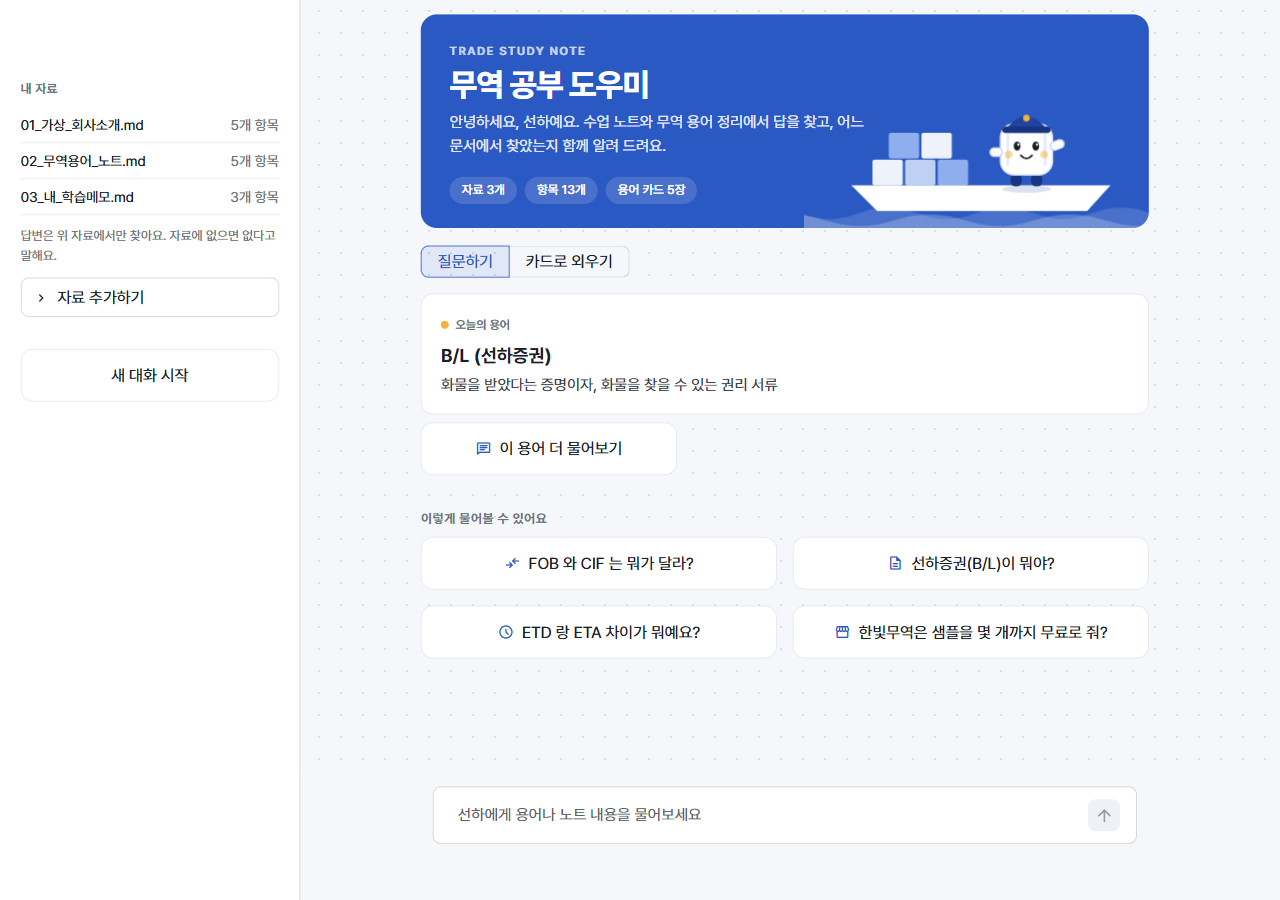
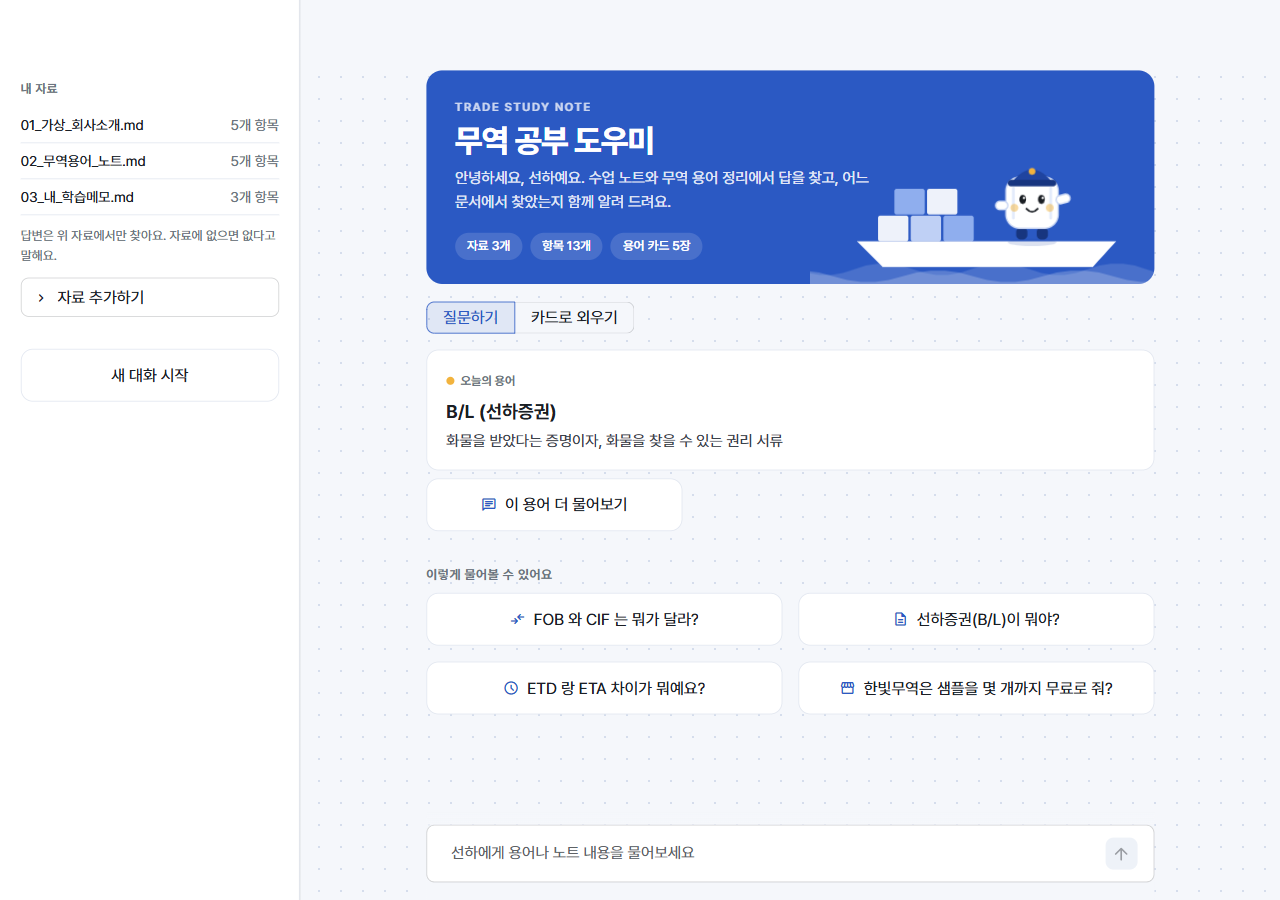
첫 화면 스크롤 수정

diff --git a/app.py b/app.py
@@ -11,6 +11,7 @@ import re
 from pathlib import Path
 
 import streamlit as st
+import streamlit.components.v1 as components
 
 import graph
 import ingest
@@ -49,8 +50,11 @@ html, body, .stApp, .stApp :not([data-testid="stIconMaterial"]):not(.material-sy
 /* 불필요한 기본 화면 요소는 숨기되, 사이드바 여닫기 버튼은 꼭 남겨요 */
 [data-testid="stAppDeployButton"], [data-testid="stMainMenu"], [data-testid="stDecoration"], footer, #MainMenu { display: none !important; }
 [data-testid="stHeaderActionElements"], h1 a { display: none !important; }
-[data-testid="stHeader"] { background: transparent; }
-.block-container { max-width: 760px; padding-top: 3.4rem; padding-bottom: 7rem; }
+[data-testid="stHeader"] { background: rgba(245,247,251,0.88); backdrop-filter: blur(6px); }  /* 스크롤할 때 글자가 위 버튼과 겹치지 않게 */
+.block-container { max-width: 760px; padding-top: 3.4rem; padding-bottom: 0; min-height: 100vh; display: flex; flex-direction: column; }
+.block-container > [data-testid="stVerticalBlock"] { flex: 1; }
+/* 입력창: 가운데 열 안에서 화면 아래에 붙어 있어요 */
+[data-testid="stLayoutWrapper"]:has(> .st-key-chatbar) { position: sticky; bottom: 0; z-index: 50; margin-top: auto; padding: 0.8rem 0 1.1rem; background: linear-gradient(to top, #F5F7FB 78%, rgba(245,247,251,0)); }
 /* 방안지(공책) 같은 점무늬 배경 */
 .stApp { background-color: var(--surface); background-image: radial-gradient(#D5DDEC 1px, transparent 1px); background-size: 22px 22px; color: var(--text); }
 .stApp p, .stApp li { font-size: 1rem; line-height: 1.7; }
@@ -182,6 +186,9 @@ html, body, .stApp, .stApp :not([data-testid="stIconMaterial"]):not(.material-sy
 [data-testid="stFileUploaderDropzoneInstructions"] { display: none; }
 [data-testid="stFileUploaderDropzone"] { padding: 0.6rem; border-radius: var(--radius); }
 
+/* 스크롤 보정용 보이지 않는 조각은 자리를 차지하지 않게 해요 */
+.stElementContainer:has(iframe) { height: 0; margin-bottom: -1rem; overflow: hidden; }
+
 /* 입력창 */
 [data-testid="stChatInput"] { border-radius: var(--radius); }
 [data-testid="stChatInput"] textarea { font-size: 0.97rem; }
@@ -245,6 +252,28 @@ DOC_ICON = (
     '<svg viewBox="0 0 24 24" fill="none" stroke-width="2" stroke-linecap="round" stroke-linejoin="round">'
     '<path d="M14 3H7a2 2 0 0 0-2 2v14a2 2 0 0 0 2 2h10a2 2 0 0 0 2-2V8z"/><path d="M14 3v5h5"/></svg>'
 )
+
+
+SCROLL_BOTTOM_JS = """
+<script>
+  // 질문을 보낸 뒤 답이 나오는 동안(최대 약 12초) 새 내용이 보이게 아래로 따라가요.
+  // 사용자가 직접 위로 스크롤하면(휠 · 터치) 바로 멈춰요.
+  const doc = window.parent.document;
+  const box = doc.querySelector('[data-testid="stMain"]');
+  let follow = true, tries = 0;
+  const stop = () => { follow = false; };
+  doc.addEventListener('wheel', stop, { passive: true });
+  doc.addEventListener('touchmove', stop, { passive: true });
+  const timer = setInterval(() => {
+    if (follow && box) box.scrollTop = box.scrollHeight;
+    if (!follow || ++tries > 60) {
+      clearInterval(timer);
+      doc.removeEventListener('wheel', stop);
+      doc.removeEventListener('touchmove', stop);
+    }
+  }, 200);
+</script>
+"""
 
 
 def esc(text):
@@ -528,61 +557,68 @@ if mode == MODES[1]:
     st.stop()
 
 # ---------- 질문하기 ----------
-typed = st.chat_input("선하에게 용어나 노트 내용을 물어보세요")
+# 대화가 그려지는 칸을 먼저 만들고, 입력창을 그 아래(문서의 맨 끝)에 둬요.
+# Streamlit 기본 입력창을 쓰면 열자마자 맨 아래로 자동 스크롤되어 머리말이 잘려 보여서,
+# 입력창을 컨테이너 안에 넣고 CSS(.st-key-chatbar)로 화면 아래에 붙였어요.
+chat_area = st.container()
+with st.container(key="chatbar"):
+    typed = st.chat_input("선하에게 용어나 노트 내용을 물어보세요")
 question = (st.session_state.pop("pending", None) or typed or "").strip()
 
-# 첫 화면 안내는 한 칸(placeholder)에 담아 두고, 질문이 들어오면 바로 비워요 (흐릿한 잔상 방지)
-intro = st.empty()
-if not st.session_state.messages and not question:
-    with intro.container():
-        if today_term:
-            st.markdown(
-                f'<div class="today"><span class="tag">오늘의 용어</span>'
-                f'<div class="term">{esc(today_term[0])}</div><div class="mean">{esc(today_term[1])}</div></div>',
-                unsafe_allow_html=True,
-            )
-            st.button("이 용어 더 물어보기", key="today_ask", on_click=ask_this, icon=":material/chat:",
-                      args=(f"{today_term[0]} 에 대해 더 자세히 알려 줘",))
-        st.markdown('<div class="sec-label">이렇게 물어볼 수 있어요</div>', unsafe_allow_html=True)
-        cols = st.columns(2)
-        for i, (icon, example) in enumerate(EXAMPLES):
-            cols[i % 2].button(example, key=f"ex{i}", icon=icon, on_click=ask_this, args=(example,))
-
-for m in st.session_state.messages:
-    show_message(m)
-
-if question:
-    past = st.session_state.messages
-    if past and past[-1]["role"] == "user":
-        # 앞 질문의 답이 끝나기 전에 새 질문을 보내면 답이 비어요 → 자리를 채워 대화 짝이 어긋나지 않게 해요
-        past.append({"role": "assistant", "content": INTERRUPTED, "answer": INTERRUPTED, "sources": []})
-        show_message(past[-1])
-    # 직전 대화 2번까지만 넘겨서 "그건 뭐야?" 같은 질문도 이해하게 해요 (질문 → 답 짝이 맞는 것만)
-    history = [
-        {"q": past[i]["content"], "a": past[i + 1]["content"]}
-        for i in range(len(past) - 1)
-        if past[i]["role"] == "user" and past[i + 1]["role"] == "assistant" and past[i + 1]["answer"] != INTERRUPTED
-    ][-2:]
-
-    st.session_state.messages.append({"role": "user", "content": question})
-    show_message(st.session_state.messages[-1])
-
-    with st.chat_message("assistant"):
-        box = st.empty()  # 진행 상황 → 글자가 흘러나오는 답 → 완성된 답 순서로 바뀌는 자리
-        result, text = {}, ""
-        for kind, value in graph.ask_stream(question, history):  # 질문 1번에 OpenAI 호출은 필요할 때만
-            if kind == "step" and not text:
-                box.markdown(
-                    f'<div class="thinking">{mascot_small("thinking")}<span>{esc(value)}<span class="dots"></span></span></div>',
+with chat_area:
+    # 첫 화면 안내는 한 칸(placeholder)에 담아 두고, 질문이 들어오면 바로 비워요 (흐릿한 잔상 방지)
+    intro = st.empty()
+    if not st.session_state.messages and not question:
+        with intro.container():
+            if today_term:
+                st.markdown(
+                    f'<div class="today"><span class="tag">오늘의 용어</span>'
+                    f'<div class="term">{esc(today_term[0])}</div><div class="mean">{esc(today_term[1])}</div></div>',
                     unsafe_allow_html=True,
                 )
-            elif kind == "token":
-                text += value
-                box.markdown(text + " ▍")
-            elif kind == "done":
-                result = value
-        with box.container():  # 같은 자리에 완성된 답 + 출처를 그려요
-            render_answer(result, fresh=True)
+                st.button("이 용어 더 물어보기", key="today_ask", on_click=ask_this, icon=":material/chat:",
+                          args=(f"{today_term[0]} 에 대해 더 자세히 알려 줘",))
+            st.markdown('<div class="sec-label">이렇게 물어볼 수 있어요</div>', unsafe_allow_html=True)
+            cols = st.columns(2)
+            for i, (icon, example) in enumerate(EXAMPLES):
+                cols[i % 2].button(example, key=f"ex{i}", icon=icon, on_click=ask_this, args=(example,))
 
-    # content 에는 답 글자를, 나머지(answer · sources · rewritten)는 다시 그릴 때 써요
-    st.session_state.messages.append({"role": "assistant", "content": result["answer"], **result})
+    for m in st.session_state.messages:
+        show_message(m)
+
+    if question:
+        past = st.session_state.messages
+        if past and past[-1]["role"] == "user":
+            # 앞 질문의 답이 끝나기 전에 새 질문을 보내면 답이 비어요 → 자리를 채워 대화 짝이 어긋나지 않게 해요
+            past.append({"role": "assistant", "content": INTERRUPTED, "answer": INTERRUPTED, "sources": []})
+            show_message(past[-1])
+        # 직전 대화 2번까지만 넘겨서 "그건 뭐야?" 같은 질문도 이해하게 해요 (질문 → 답 짝이 맞는 것만)
+        history = [
+            {"q": past[i]["content"], "a": past[i + 1]["content"]}
+            for i in range(len(past) - 1)
+            if past[i]["role"] == "user" and past[i + 1]["role"] == "assistant" and past[i + 1]["answer"] != INTERRUPTED
+        ][-2:]
+
+        st.session_state.messages.append({"role": "user", "content": question})
+        show_message(st.session_state.messages[-1])
+        components.html(SCROLL_BOTTOM_JS, height=0)  # 답이 나오는 동안 화면이 아래로 따라가게 해요
+
+        with st.chat_message("assistant"):
+            box = st.empty()  # 진행 상황 → 글자가 흘러나오는 답 → 완성된 답 순서로 바뀌는 자리
+            result, text = {}, ""
+            for kind, value in graph.ask_stream(question, history):  # 질문 1번에 OpenAI 호출은 필요할 때만
+                if kind == "step" and not text:
+                    box.markdown(
+                        f'<div class="thinking">{mascot_small("thinking")}<span>{esc(value)}<span class="dots"></span></span></div>',
+                        unsafe_allow_html=True,
+                    )
+                elif kind == "token":
+                    text += value
+                    box.markdown(text + " ▍")
+                elif kind == "done":
+                    result = value
+            with box.container():  # 같은 자리에 완성된 답 + 출처를 그려요
+                render_answer(result, fresh=True)
+
+        # content 에는 답 글자를, 나머지(answer · sources · rewritten)는 다시 그릴 때 써요
+        st.session_state.messages.append({"role": "assistant", "content": result["answer"], **result})
